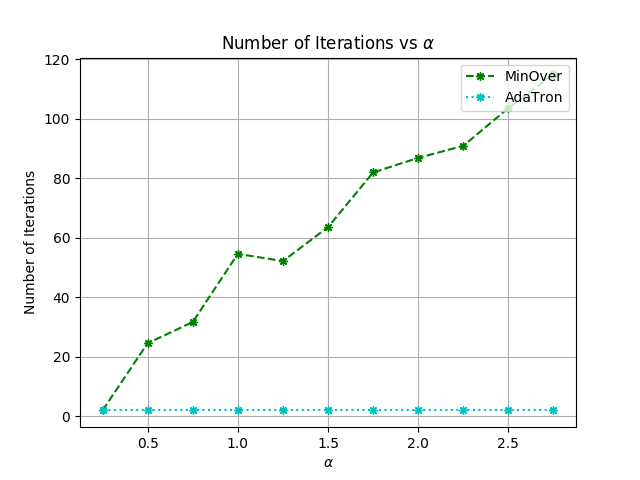
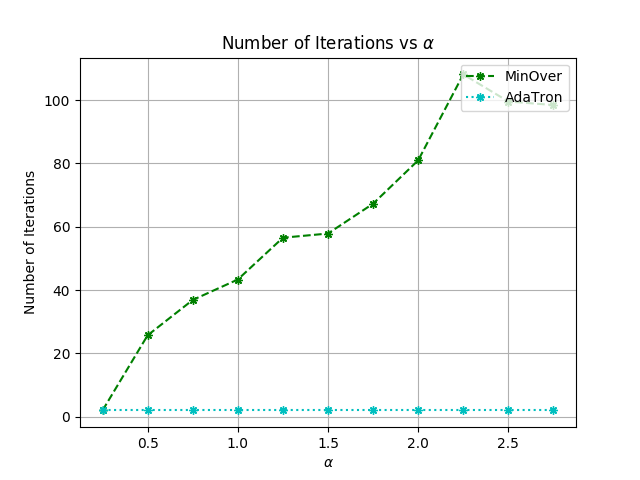
Updated added README

diff --git a/a2_minover/perceptron_minover.py b/a2_minover/perceptron_minover.py
@@ -60,9 +60,8 @@ class Perceptron:
             w_old = w
             for i in range(X.shape[0]):
                 E = np.dot(w, X[i]) * y[i]
-                emb_str_update = max(0, emb_str[i] + 0.001 * (1 - E))
-                w = w + ((emb_str_update - emb_str[i]) * X[i])/(X.shape[1])
-                emb_str[i] = emb_str_update
+                emb_str[i] = max(0, emb_str[i] + 0.01 *(1 - E))
+                w = sum([emb_str[j] * X[j] for j in range(len(emb_str))])/(X.shape[1])
             w_angle = acos(min(np.dot(w,w_old)/(np.linalg.norm(w)*np.linalg.norm(w_old)), 1))
             if np.abs(w_angle) < self.threshold:
                 stop_fit = True

diff --git a/a2_minover/README.md b/a2_minover/README.md
@@ -1,0 +1,14 @@
+## Assignment 2: Learning a Rule
+
+### Runtime Instructions
+1. The program is written in python v 3.x and depends on the numpy package.
+2. Install the numpy, pandas and matplotlib packages using the followig pip command:
+
+    ```pip install numpy pandas matplotlib```
+3. The program is contained in the ```perceptron_minover.py``` file. Run the file to simulate the results of training a perceptron using the MinOver and AdaTron algorithms on randomized datasets.
+
+The data is randomized for different $\alpha$ and $N$ values, preset to the following ranges:
+* $\alpha$ = [0.25, 0.5, 0.75, 1, 1.25, 1.5, 1.75, 2, 2.25, 2.5, 2.75, 3]
+* $N$ = 4
+
+50 iterations of the Adatron and MinOver algorithms are simulated and thr resulting outputs are stored as csv files and graphs in the output directory.
